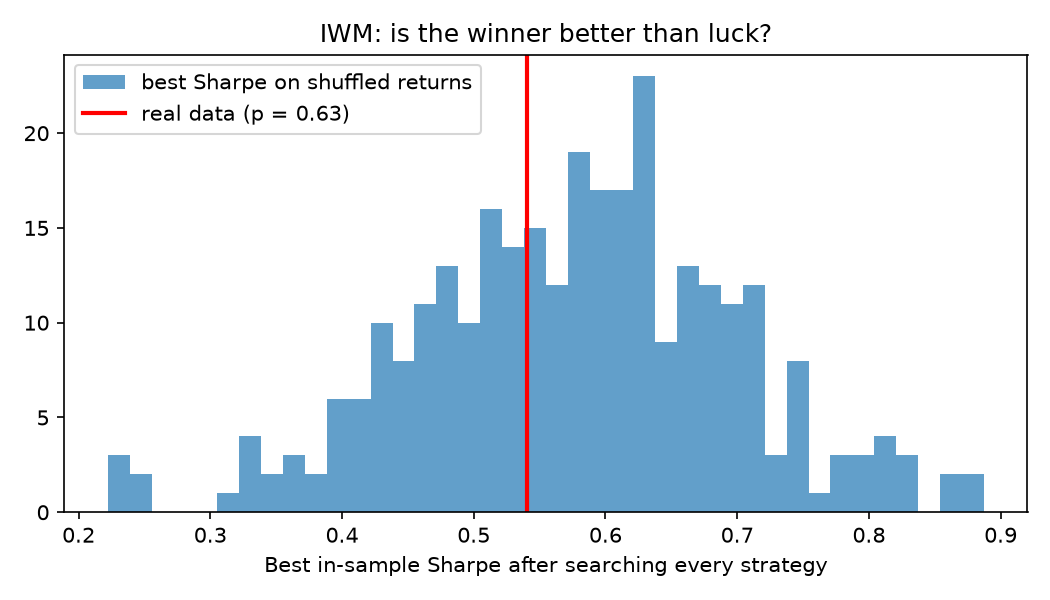
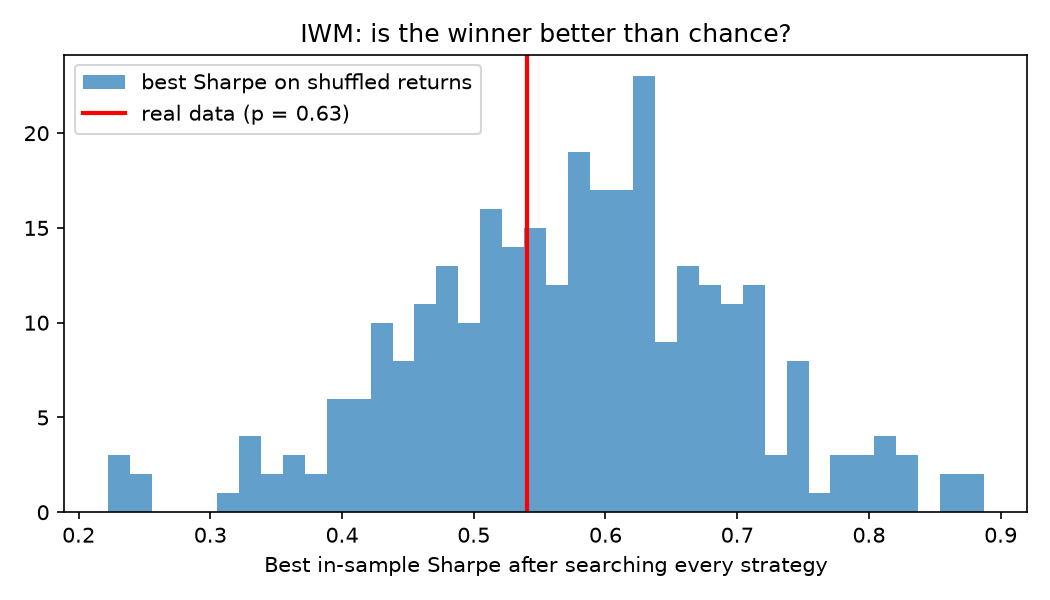
Rename project to backtest-overfitting

Changed region(s): [[0.2743, 0.03, 0.7619, 0.09]]

diff --git a/src/backtest_overfitting/report.py b/src/backtest_overfitting/report.py
@@ -1,6 +1,6 @@
 """Run every check on one ticker and write results.json plus three charts.
 
-    uv run skill-or-luck SPY
+    uv run backtest-overfitting SPY
 """
 
 import argparse
@@ -101,7 +101,7 @@ def charts(out: Path, ticker, search, perm, mc_normal, mc_fat) -> None:
     ax.hist(perm.null, bins=40, alpha=0.7, label="best Sharpe on shuffled returns")
     ax.axvline(perm.observed, c="red", lw=2, label=f"real data (p = {perm.p_value:.2f})")
     ax.set_xlabel("Best in-sample Sharpe after searching every strategy")
-    ax.set_title(f"{ticker}: is the winner better than luck?")
+    ax.set_title(f"{ticker}: is the winner better than chance?")
     ax.legend()
     fig.tight_layout()
     fig.savefig(out / "permutation.png", dpi=150)
@@ -120,7 +120,7 @@ def charts(out: Path, ticker, search, perm, mc_normal, mc_fat) -> None:
 
 
 def main() -> None:
-    p = argparse.ArgumentParser(description="Is a trading strategy's profit skill or luck?")
+    p = argparse.ArgumentParser(description="Does a trading strategy's backtest hold up on data it never saw?")
     p.add_argument("ticker", nargs="?", default="SPY")
     p.add_argument("--start", default="2005-01-01")
     p.add_argument("--end", default="2026-01-01")

diff --git a/tests/test_backtest_overfitting.py b/tests/test_backtest_overfitting.py
@@ -1,16 +1,16 @@
 import numpy as np
 import pytest
 
-from skill_or_luck import montecarlo, overfit
-from skill_or_luck.backtest import (
+from backtest_overfitting import montecarlo, overfit
+from backtest_overfitting.backtest import (
     crossover_positions,
     max_drawdown,
     moving_average,
     prices_from_returns,
     sharpe,
 )
-from skill_or_luck.ml import LogisticRegression, features, fit_and_position
-from skill_or_luck.permutation import permutation_test
+from backtest_overfitting.ml import LogisticRegression, features, fit_and_position
+from backtest_overfitting.permutation import permutation_test
 
 
 def test_moving_average_matches_naive():
@@ -97,7 +97,7 @@ def test_fat_tails_have_same_volatility_but_worse_extremes():
 
 
 def test_volatility_matched_test_keeps_flat_day_count():
-    from skill_or_luck.permutation import volatility_matched_test
+    from backtest_overfitting.permutation import volatility_matched_test
 
     rng = np.random.default_rng(5)
     r = rng.normal(0, 0.01, 500)

diff --git a/src/backtest_overfitting/__init__.py b/src/backtest_overfitting/__init__.py
@@ -1,0 +1,1 @@
+"""Measures overfitting in trading strategy backtests."""

diff --git a/README.md b/README.md
@@ -1,6 +1,6 @@
-# skill-or-luck
+# backtest-overfitting
 
-Tests whether a trading strategy's profit is skill or luck.
+Tests whether a trading strategy's backtest holds up on data it never saw.
 
 Search enough strategies and one of them will look brilliant on past data by
 chance. In machine learning this is overfitting. This tool measures it on real
@@ -25,7 +25,7 @@ market data, with four checks:
 ## Results
 
 Daily total returns, January 2005 to December 2025, for three US index funds.
-Sharpe ratios are annualised. Run with `uv run skill-or-luck SPY`.
+Sharpe ratios are annualised. Run with `uv run backtest-overfitting SPY`.
 
 | Fund | Buy and hold, out of sample | In-sample winner: tuned | ... then out of sample | Its rank out of sample | Permutation p |
 |---|---|---|---|---|---|
@@ -67,6 +67,6 @@ misses what really drives crashes: bad days arriving together.
 
 ```
 uv sync
-uv run skill-or-luck SPY        # writes results/SPY/
+uv run backtest-overfitting SPY # writes results/SPY/
 uv run pytest
 ```
